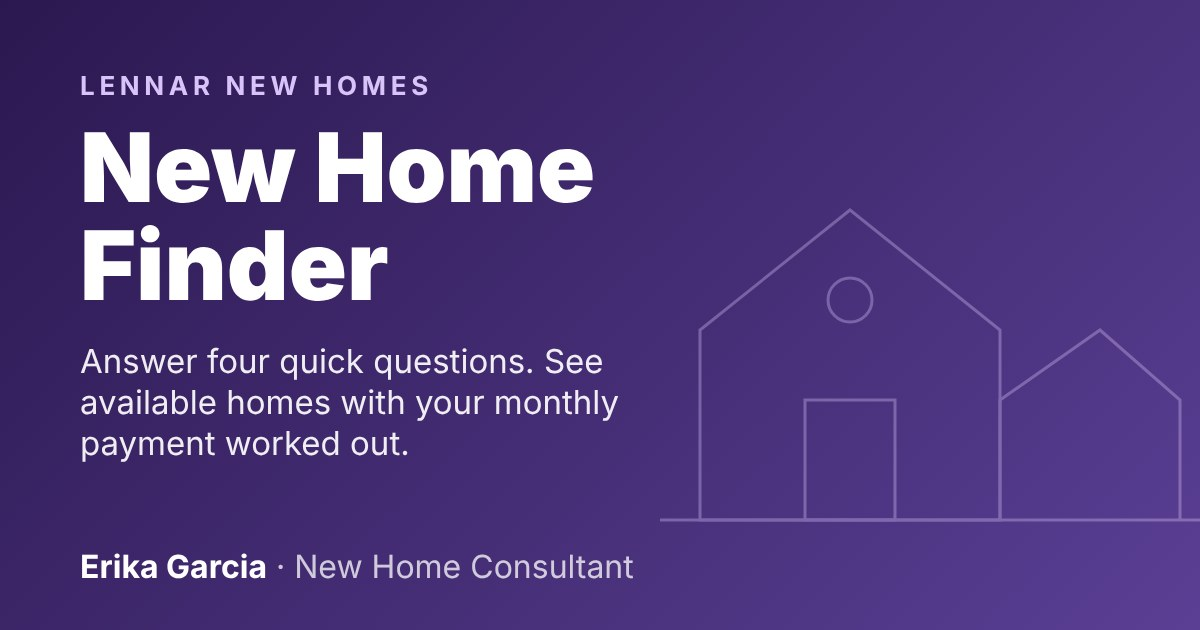
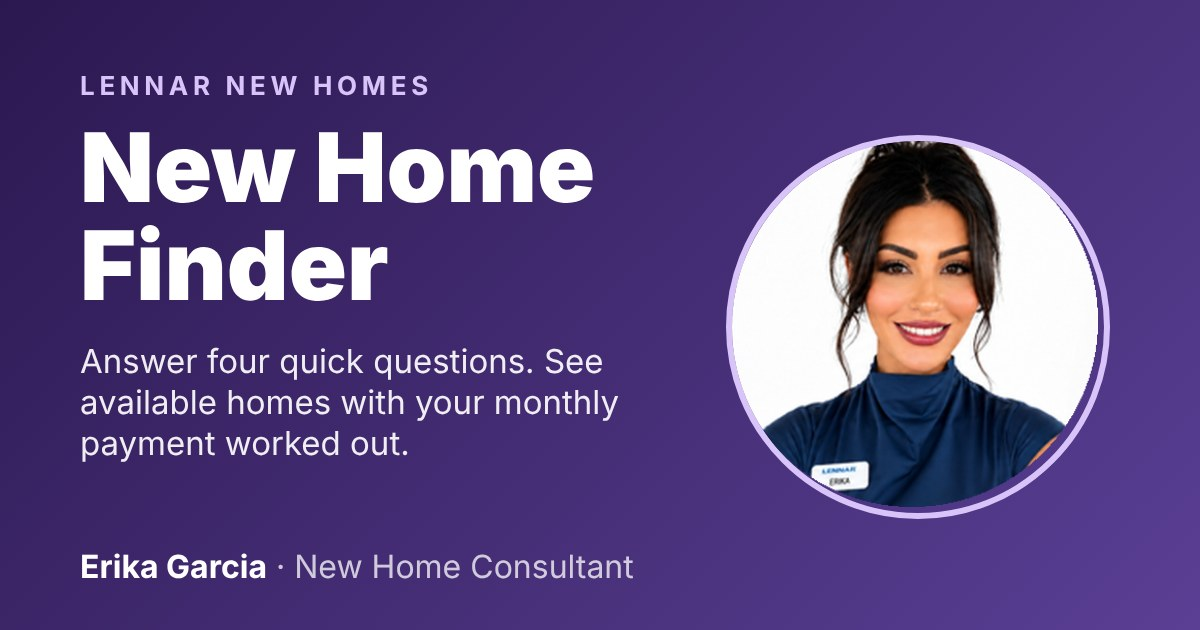
Link preview: add Erika's photo
Claude-Session: https://claude.ai/code/session_01UNb9qSRPhD9rJnniXS6Jsb

Changed region(s): [[0.555, 0.2111, 1.0, 0.8444], [0.9558, 0.6032, 0.9867, 0.6333]]

diff --git a/index.html b/index.html
@@ -3,8 +3,8 @@
 <meta name="description" content="Answer four quick questions and see available Lennar new homes with the monthly payment already worked out. Erika Garcia, New Home Consultant.">
 <meta property="og:type" content="website"><meta property="og:site_name" content="New Home Finder">
 <meta property="og:title" content="New Home Finder | Erika Garcia"><meta property="og:description" content="Answer four quick questions and see available Lennar new homes with the monthly payment already worked out. Erika Garcia, New Home Consultant.">
-<meta property="og:url" content="https://erikagetsyouhome.com/"><meta property="og:image" content="https://erikagetsyouhome.com/preview.jpg?v=1"><meta property="og:image:type" content="image/jpeg"><meta property="og:image:width" content="1200"><meta property="og:image:height" content="630"><meta property="og:image:alt" content="New Home Finder with Erika Garcia, New Home Consultant">
-<meta name="twitter:card" content="summary_large_image"><meta name="twitter:title" content="New Home Finder | Erika Garcia"><meta name="twitter:description" content="Answer four quick questions and see available Lennar new homes with the monthly payment already worked out. Erika Garcia, New Home Consultant."><meta name="twitter:image" content="https://erikagetsyouhome.com/preview.jpg?v=1">
+<meta property="og:url" content="https://erikagetsyouhome.com/"><meta property="og:image" content="https://erikagetsyouhome.com/preview.jpg?v=2"><meta property="og:image:type" content="image/jpeg"><meta property="og:image:width" content="1200"><meta property="og:image:height" content="630"><meta property="og:image:alt" content="New Home Finder with Erika Garcia, New Home Consultant">
+<meta name="twitter:card" content="summary_large_image"><meta name="twitter:title" content="New Home Finder | Erika Garcia"><meta name="twitter:description" content="Answer four quick questions and see available Lennar new homes with the monthly payment already worked out. Erika Garcia, New Home Consultant."><meta name="twitter:image" content="https://erikagetsyouhome.com/preview.jpg?v=2">
 <link rel="icon" href="https://erikagetsyouhome.com/preview.jpg">
 </head><body>
 <title>New Home Finder</title>
